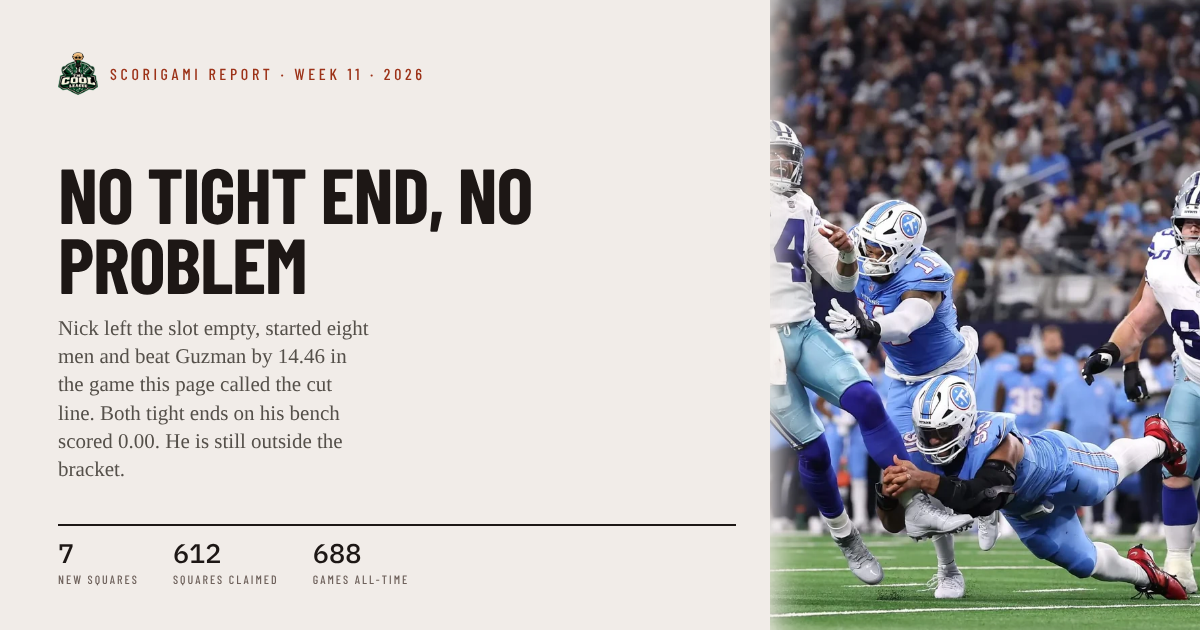
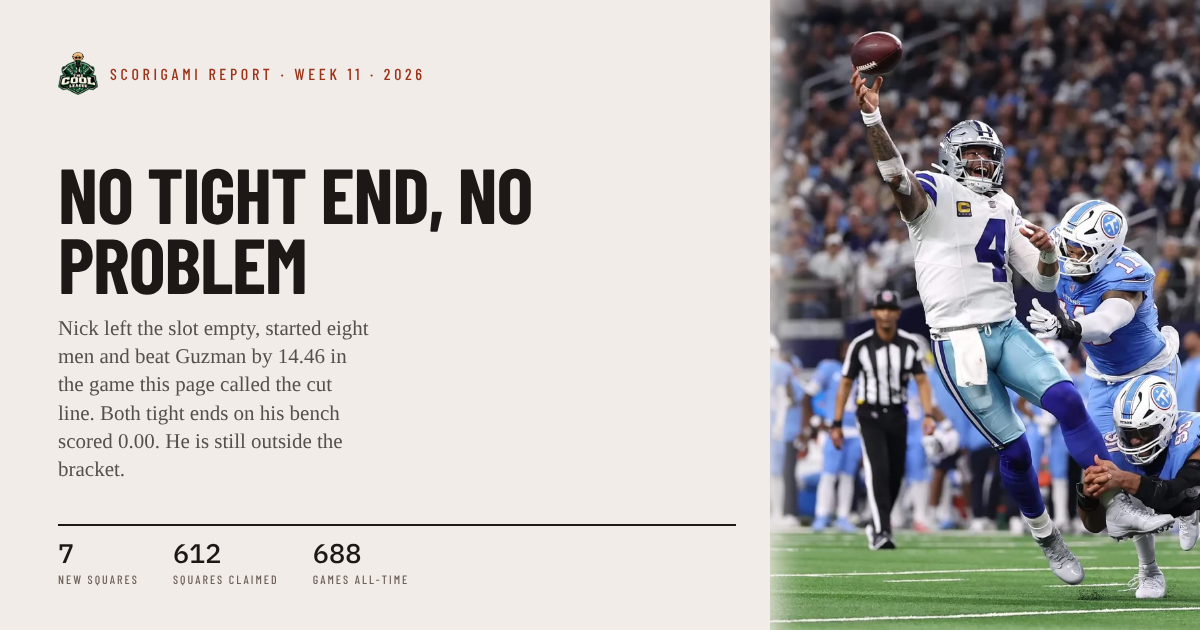
Centre the subject in the share card photo
The card's photo panel is portrait and the heroes are landscape, so
object-fit:cover throws away most of the width. The crop point was a
hardcoded 60%, which put Dak Prescott half out of frame behind the
Tennessee pass rush.

ISSUE.photo now takes an optional focus, given as the subject's place in
the SOURCE image -- focus:'34% 42%' for this week -- and the generator
converts it. The conversion matters: a percentage in object-position is
measured against the discarded overflow, not the picture, so 34% of the
photo works out as 21% of the crop. Eyeballing it never lands.

Falls back to the old 60% 42% when no focus is given.

Claude-Session: https://claude.ai/code/session_013zvrbkmsLqJGurJxMMmd5c

Changed region(s): [[0.6167, 0.0, 1.0, 1.0]]

diff --git a/public/index.html b/public/index.html
@@ -847,7 +847,7 @@ let CUR='overview', STATE={};
 const ISSUE={
   yr:2026, wk:11, head:'No Tight End, No Problem',
   deck:'Nick left the slot empty, started eight men and beat Guzman by 14.46 in the game this page called the cut line. Both tight ends on his bench scored 0.00. He is still outside the bracket.',
-  photo:{src:'news/w11-hero.webp', h:933,
+  photo:{src:'news/w11-hero.webp', h:933, focus:'34% 42%',
     alt:'Dak Prescott throwing off his back foot as a defender brings him down',
     cap:'Dak Prescott threw for 325 and five scores. His 35.90 was the biggest number of the week and it won Nick a game that changed nothing.'},
   lead:[
